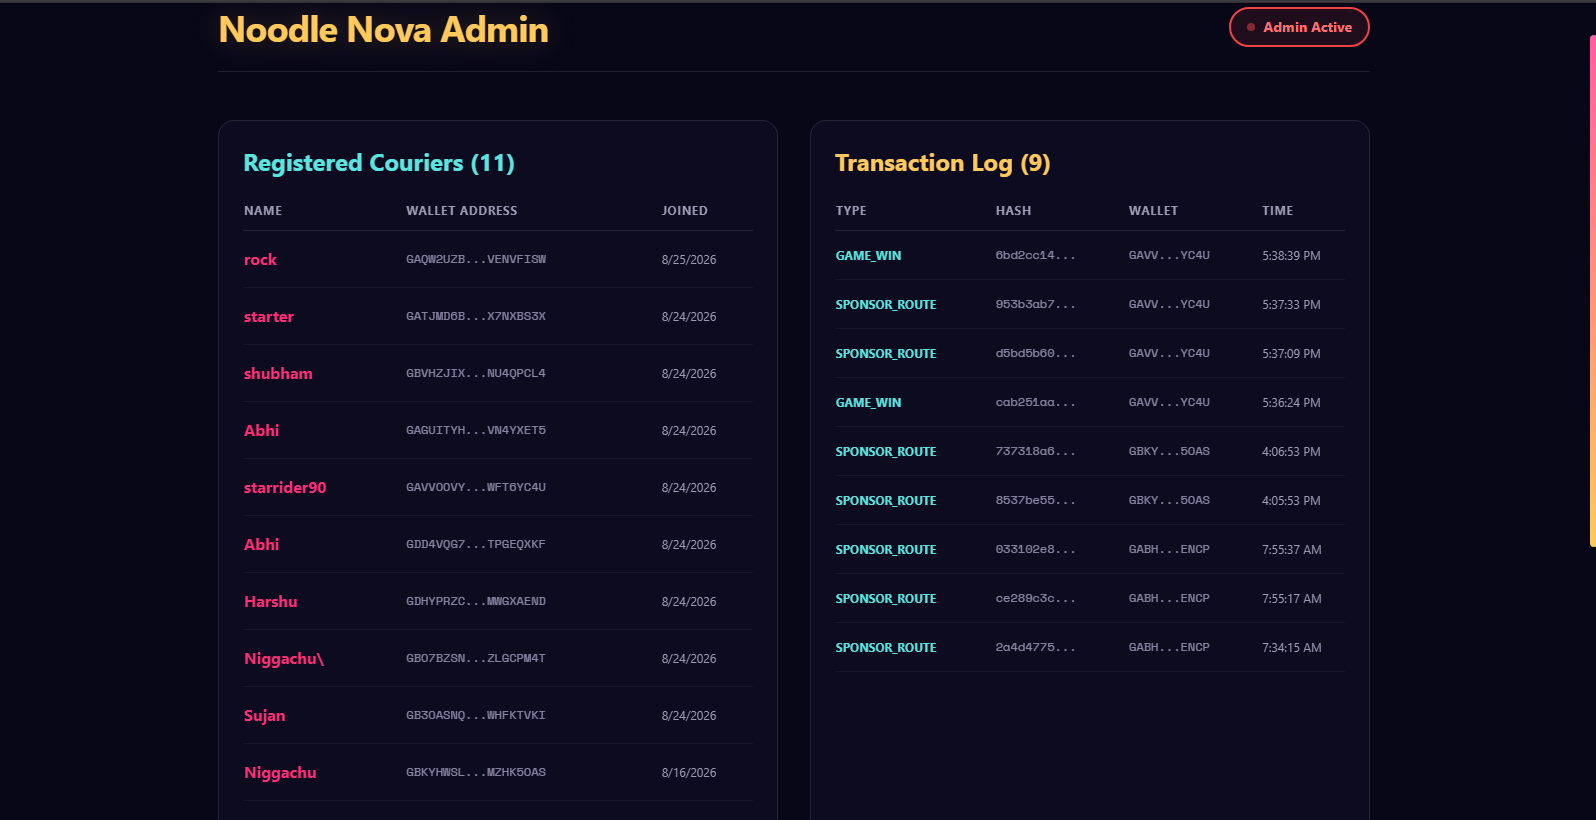
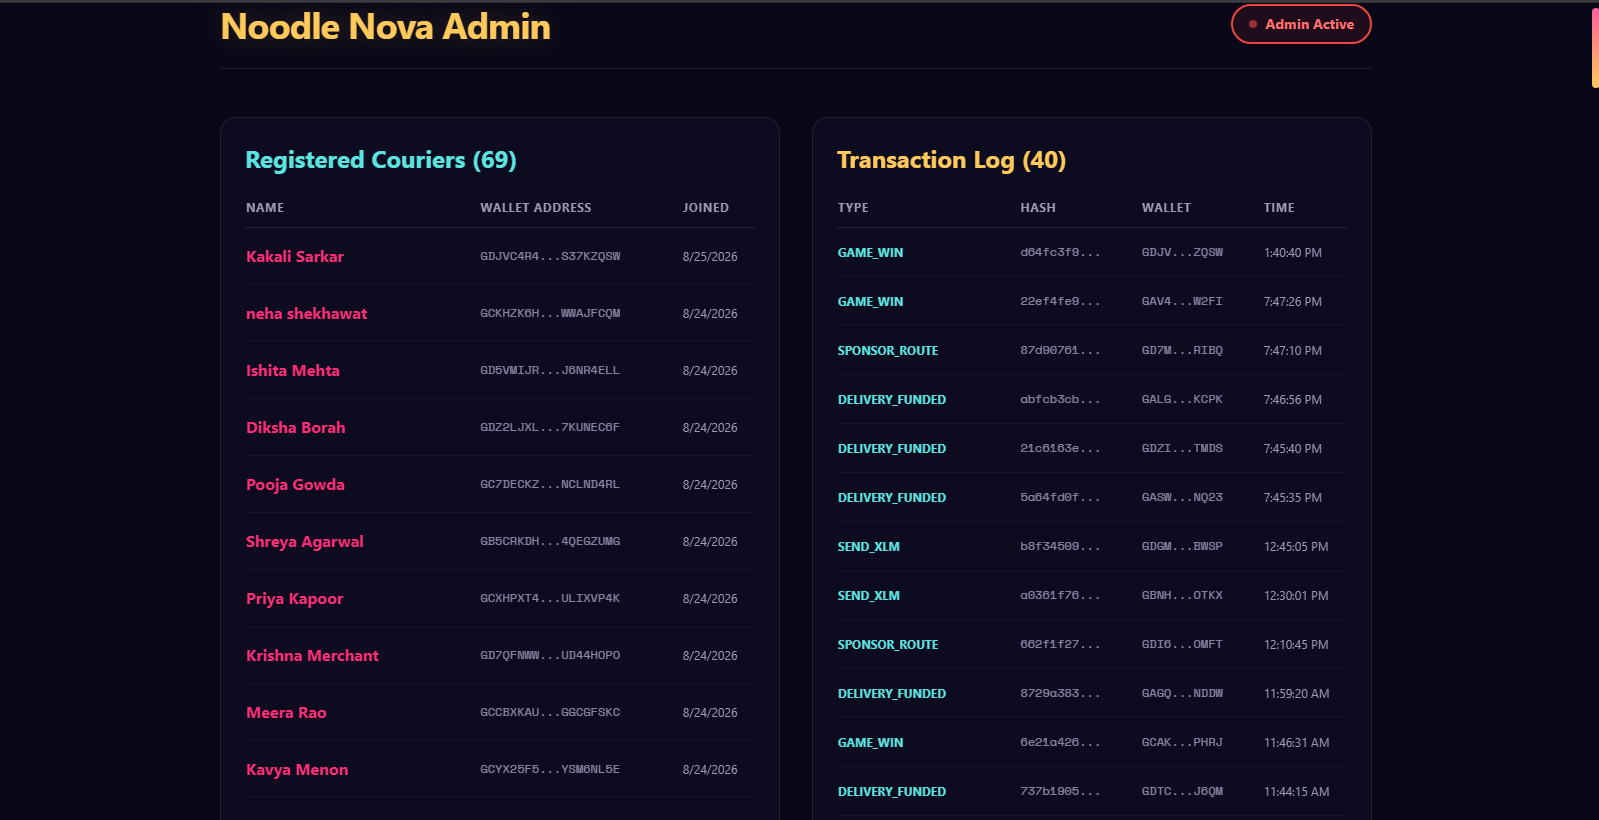
docs: update admin panel evidence screenshots

diff --git a/submission/evidence-index.md b/submission/evidence-index.md
@@ -8,14 +8,14 @@ This index catalogs evidence already present in the repository or supplied by th
 | Feedback UI | [`../public/feedback-ui.png`](../public/feedback-ui.png) | Existing repository screenshot; safe to reference in the README. |
 | Architecture | [`noodlenova-architecture.png`](noodlenova-architecture.png) and [`architecture.png`](architecture.png) | `noodlenova-architecture.png` is the NoodleNova-specific diagram based on the repository. `architecture.png` is the supplied Cosmic-Capture-style reference visual and is not presented as NoodleNova’s own architecture. |
 | User onboarding spreadsheet | [`user-feedback-sheet-updated.png`](user-feedback-sheet-updated.png) and [current shared Google Sheet](https://docs.google.com/spreadsheets/d/1i4tkHd1MR0qPSeLngOxr9hNsqelM31TxBhXPZilFecI/edit?usp=sharing) | Current source contains 80 response rows; the image is a layout snapshot and both artifacts contain sensitive personal fields. |
-| Admin-panel user onboarding | [`admin-panel-user-onboarding.png`](admin-panel-user-onboarding.png) | Supplied admin screenshot showing the registered-courier list and transaction log; use as private/sensitive operational evidence. |
+| Admin-panel user onboarding | [`admin-panel-user-onboarding.png`](admin-panel-user-onboarding.png) and [`admin-panel-feedback.png`](admin-panel-feedback.png) | Supplied admin screenshots showing 69 registered couriers, 40 transaction-log entries, and 69 feedback records; use as private/sensitive operational evidence. |
 | Mobile responsive UI | External GitHub user-attachment image referenced by the README | Existing owner-provided evidence; confirm the link remains accessible before final submission. |
 | CI/CD setup | [`../public/cicd-pipeline.png`](../public/cicd-pipeline.png) | Existing repository screenshot; reference only. |
 | Test output | [`../public/test-output.png`](../public/test-output.png) | Existing repository screenshot documenting the recorded 3-pass result. |
 | Contract deployment | Root README contract table and public Stellar links | Existing project proof; reviewer should re-open the public links because Testnet state can reset. |
 | Demo video | [Owner-provided Google Drive link](https://drive.google.com/file/d/1N6QC__iKYQbef9ZXsaxMIjnC2TDsDUWn/view?usp=drive_link) | **Pending replacement:** the URL returned a file-not-found page in the read-only access check. |
 | Feedback/onboarding | [Current shared Google Sheet](https://docs.google.com/spreadsheets/d/1i4tkHd1MR0qPSeLngOxr9hNsqelM31TxBhXPZilFecI/edit?usp=sharing), spreadsheet snapshot, [`user-onboarding-table.md`](user-onboarding-table.md), and [`feedback-summary.md`](feedback-summary.md) | Current source contains 80 response rows; the public table masks emails and shortens wallet/transaction identifiers. |
-| Website interactions | [`admin-panel-user-onboarding.png`](admin-panel-user-onboarding.png), authorized admin panel, and [`interaction-evidence.md`](interaction-evidence.md) | Screenshot shows the registered-user list and transaction log; full hashes and the 10-interaction claim remain pending verification. Do not publish the admin token or private admin URL. |
+| Website interactions | [`admin-panel-user-onboarding.png`](admin-panel-user-onboarding.png), [`admin-panel-feedback.png`](admin-panel-feedback.png), authorized admin panel, and [`interaction-evidence.md`](interaction-evidence.md) | Screenshots show the registered-user list, 40-entry transaction log, and 69 feedback records; full hashes and the 10-interaction claim remain pending verification. Do not publish the admin token or private admin URL. |
 | Analytics | No public dashboard/configuration artifact found in read-only audit | Mark `Not verified`; do not imply integration is active. |
 | Monitoring | No public dashboard/configuration artifact found in read-only audit | Mark `Not verified`; do not imply monitoring is active. |
 | CI status | [`ci-status-diagnosis.md`](ci-status-diagnosis.md) | Documents the pre-existing GitHub Actions/test-discovery failure without changing the workflow. |

diff --git a/submission/green-belt-delivery-report.md b/submission/green-belt-delivery-report.md
@@ -16,7 +16,8 @@ The initial documentation update was pushed to the public repository in commit [
 | [`submission/interaction-evidence.md`](https://github.com/SujAnverse1125/NoodleNova/blob/master/submission/interaction-evidence.md) | Conservative wallet-interaction register distinguishing visible records from independently verified transactions. |
 | [`submission/noodlenova-architecture.png`](https://github.com/SujAnverse1125/NoodleNova/blob/master/submission/noodlenova-architecture.png) | NoodleNova-specific architecture diagram generated from the verified repository structure. |
 | [`submission/user-feedback-sheet-updated.png`](https://github.com/SujAnverse1125/NoodleNova/blob/master/submission/user-feedback-sheet-updated.png) | Supplied Excel/Sheets-style onboarding and feedback image with 12 visible rows. |
-| [`submission/admin-panel-user-onboarding.png`](https://github.com/SujAnverse1125/NoodleNova/blob/master/submission/admin-panel-user-onboarding.png) | Supplied admin-panel screenshot showing the registered-courier list and transaction log. |
+| [`submission/admin-panel-user-onboarding.png`](https://github.com/SujAnverse1125/NoodleNova/blob/master/submission/admin-panel-user-onboarding.png) | Updated admin-panel screenshot showing 69 registered couriers and the transaction log. |
+| [`submission/admin-panel-feedback.png`](https://github.com/SujAnverse1125/NoodleNova/blob/master/submission/admin-panel-feedback.png) | Updated admin-panel screenshot showing 69 user-feedback records. |
 | [`submission/ci-status-diagnosis.md`](https://github.com/SujAnverse1125/NoodleNova/blob/master/submission/ci-status-diagnosis.md) | Documents the pre-existing GitHub Actions/test-discovery failure without changing the workflow. |
 
 ## Verified during delivery
@@ -34,7 +35,7 @@ The supplied Google Drive demo-video URL did **not** pass verification: it retur
 | Stellar Testnet contract | Evidence available | Re-open the public contract and transaction links shortly before review because Testnet state can reset. |
 | Product, architecture, and mobile UI screenshots | Evidence available | Confirm existing image links remain accessible; the NoodleNova-specific architecture diagram is now included in `submission/noodlenova-architecture.png`. |
 | 80 onboarding/feedback responses and admin user list | Evidence available | Use the current shared sheet, spreadsheet snapshot, admin-panel screenshot, and sanitized summary; treat the raw sheet and images as sensitive evidence. |
-| 10+ wallet interactions | Pending verification | The current sheet provides 42 transaction-hash candidates, but full admin-panel records and independent verification of at least 10 distinct successful Stellar transactions are still required. |
+| 10+ wallet interactions | Pending verification | The current sheet provides 42 transaction-hash candidates and the updated admin panel shows 40 transaction-log entries, but full-hash reconciliation and independent verification of at least 10 distinct successful Stellar transactions are still required. |
 | Analytics | Not verified | Provide existing dashboard/configuration evidence if available; otherwise leave unverified. |
 | Monitoring/error tracking | Not verified | Provide existing dashboard/configuration evidence if available; otherwise leave unverified. |
 | 15+ meaningful commits | Verified | GitHub reports more than 60 public commits, including the documentation updates. |

diff --git a/README.md b/README.md
@@ -222,9 +222,11 @@ The complete current response data from the owner-provided [Noodle Nova Feedback
 |  25/08/2026 13:40:40  |  Debansh Tiwari  |  GA4SXARZZ4RPF6N7VOAH3B5OKMFAP3FGY6M6TO3DZJL4TMU2KOVBHCIY  |  -  |  4  |  The overall experience is smooth. Liked the product!  |
 ### Admin-panel interaction evidence
 
-The following screenshot shows the NoodleNova admin panel with the registered-courier list and transaction log used as operational onboarding evidence.
+The following screenshots show the NoodleNova admin panel with the registered-courier list, transaction log, and user-feedback records. The supplied views show **69 registered couriers**, **40 transaction-log entries**, and **69 user-feedback records**.
 
-![Noodle Nova admin panel showing registered users and transaction log](submission/admin-panel-user-onboarding.png)
+![Noodle Nova admin panel showing registered couriers and transaction log](submission/admin-panel-user-onboarding.png)
+
+![Noodle Nova admin panel showing user feedback records](submission/admin-panel-feedback.png)
 
 Because both screenshots contain names, wallet-address fragments, transaction identifiers, and other user-related fields, they should be treated as sensitive submission evidence and not redistributed beyond the authorized review process. The analysis in [`submission/feedback-summary.md`](submission/feedback-summary.md) intentionally reports aggregate results instead of reproducing the raw rows.
 

diff --git a/submission/interaction-evidence.md b/submission/interaction-evidence.md
@@ -13,7 +13,7 @@ The supplied Excel/Sheets-style user-response image is included here: [`user-fee
 | Evidence source | What was observed | Submission status |
 | --- | --- | --- |
 | Shared feedback sheet | 80 response rows, 80 populated wallet-address fields, and 42 non-placeholder transaction-hash values | Supports onboarding/feedback count and identifies transaction candidates; does not independently verify 10 successful transactions |
-| Authorized admin panel | Nine shortened transaction-link entries were exposed in the inspected navigation response | Supports the existence of recorded transaction entries; full hashes and network confirmation remain required |
+| Authorized admin panel | The supplied screenshots show 69 registered couriers, 40 transaction-log entries, and 69 user-feedback records | Supports the existence of recorded transaction and feedback entries; full hashes and network confirmation remain required |
 | Public Stellar explorer records in the repository README | Deployment, create-delivery, and complete-delivery proof transactions are documented | Supports the project’s contract demonstration; these are not automatically 10 distinct user interactions |
 
 ## Verification register
